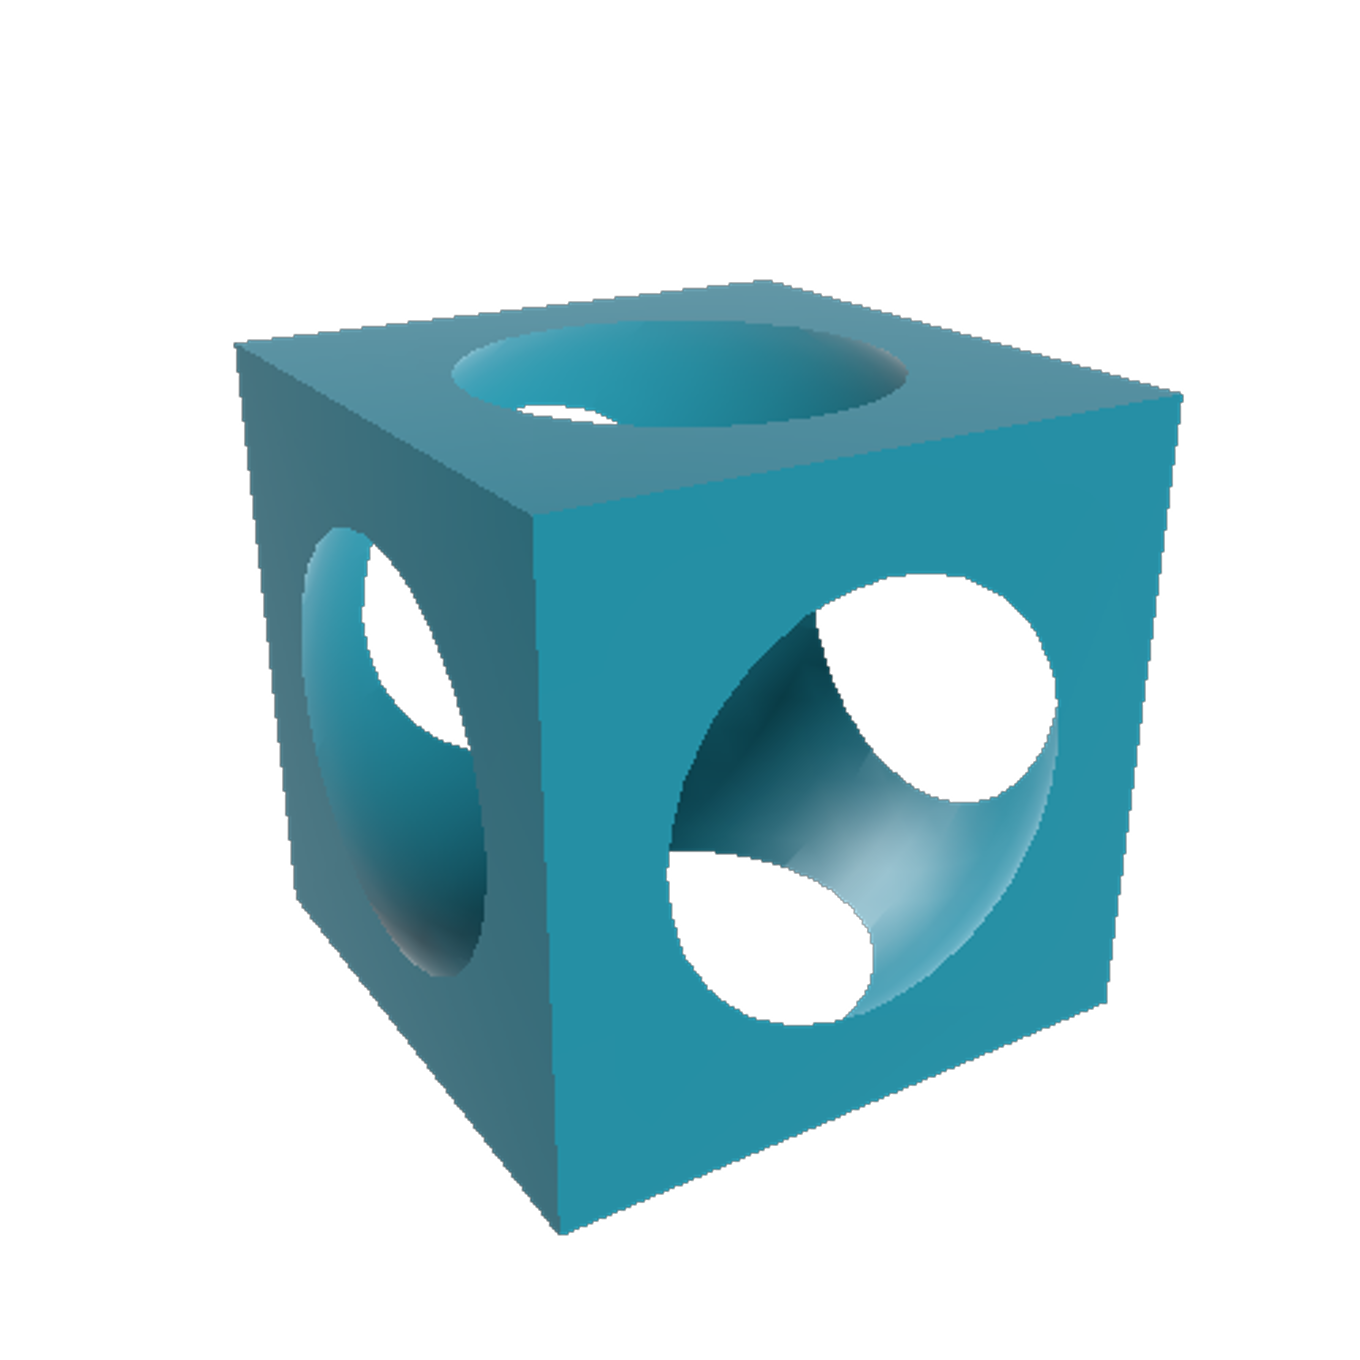
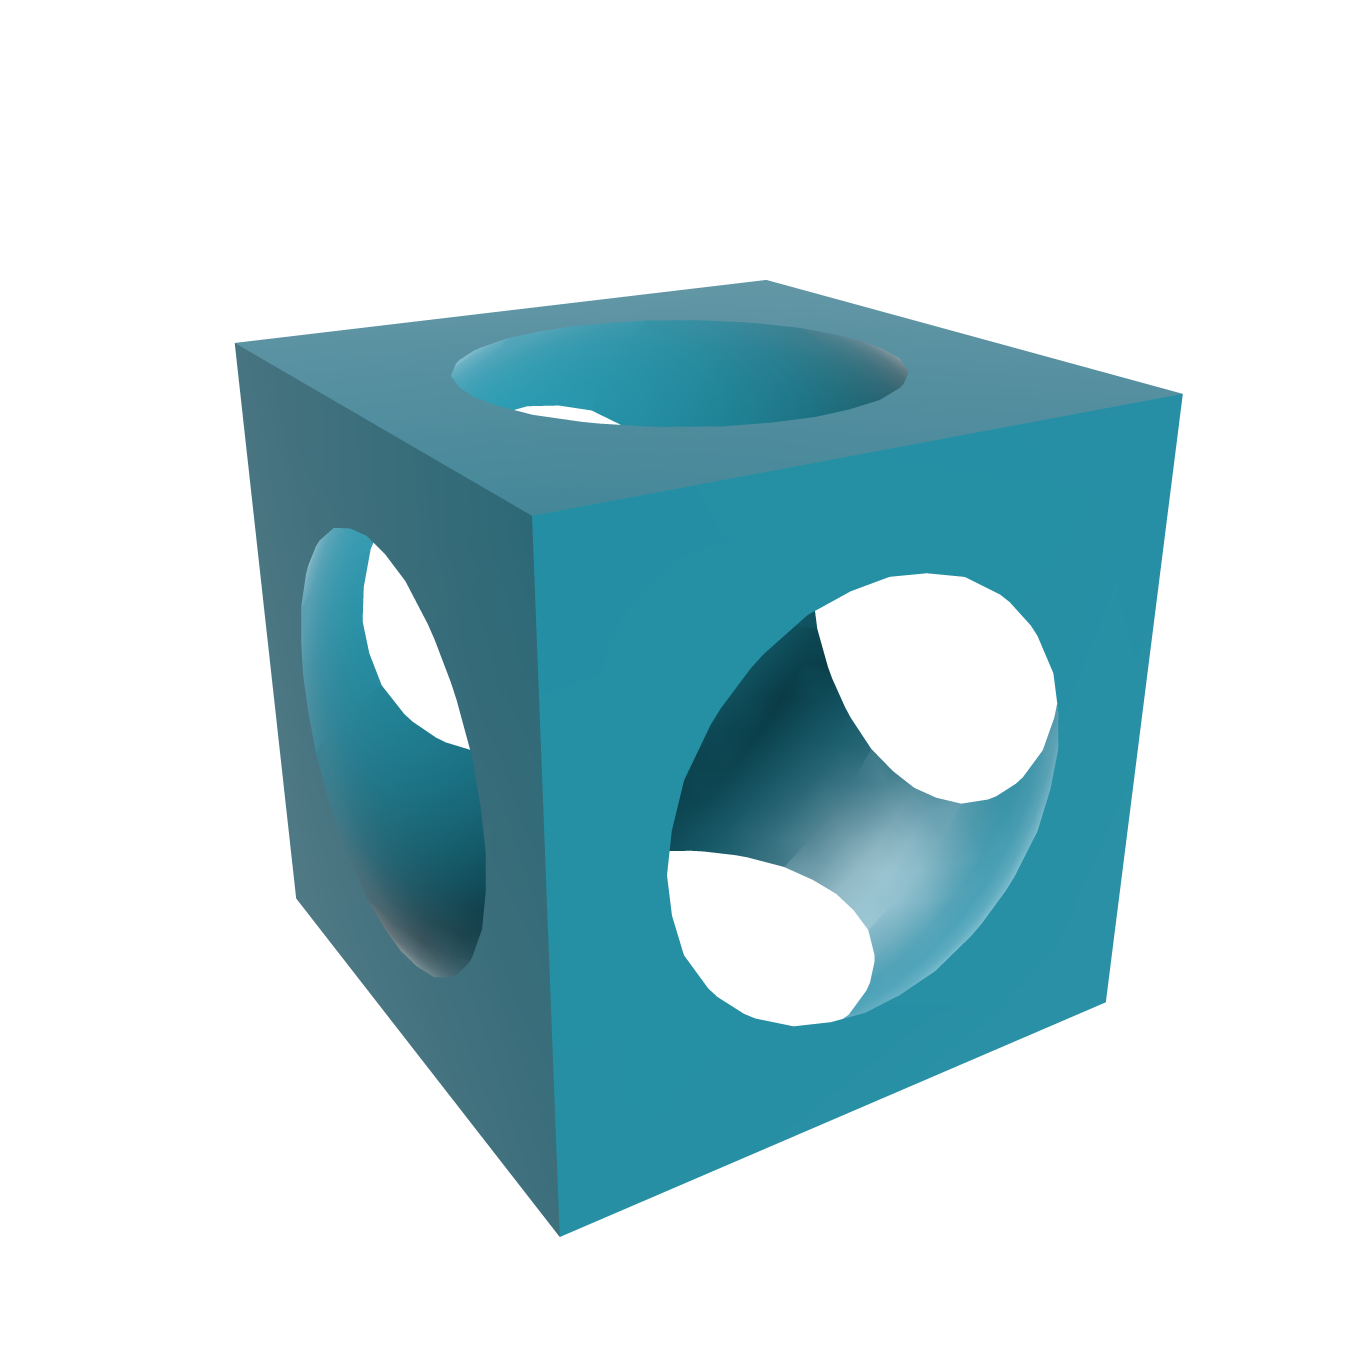
docs(scad): render the DSL example at max antialiasing
Set antialias: 4 in the DSL snippet and regenerate scad-dsl.png at that
level (cache-busted).

diff --git a/crates/maquette-scad/README.md b/crates/maquette-scad/README.md
@@ -71,12 +71,13 @@ rotate([0, 90, 0]) rod(hole, len);
   elevation: 24,
   up: (0, 1, 0),
   specular: 0.35,
+  antialias: 4,
   background: none,
 )
 ```
 
 </td>
-<td><img src="https://raw.githubusercontent.com/bernsteining/maquette/master/examples/readme/scad-dsl.png" width="300" alt="CSG cube built with the Typst DSL" /></td>
+<td><img src="https://raw.githubusercontent.com/bernsteining/maquette/master/examples/readme/scad-dsl.png?v=2" width="300" alt="CSG cube built with the Typst DSL" /></td>
 </tr>
 <tr><th colspan="2" align="left">3. Multiple OpenSCAD files</th></tr>
 <tr>
